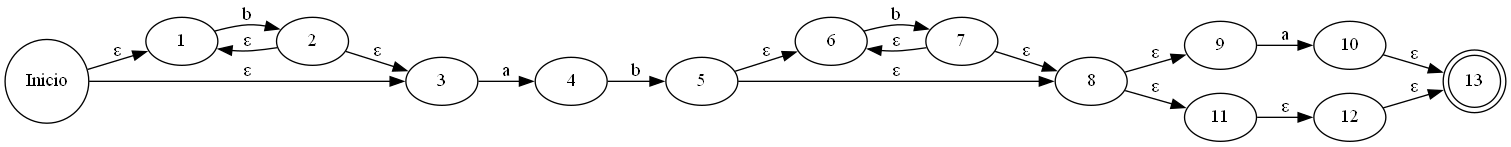
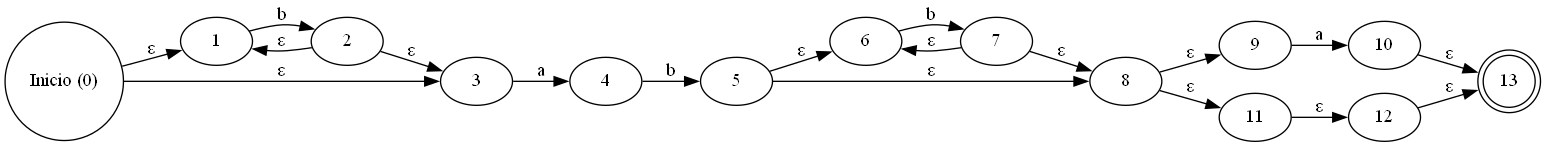
ya listo, el detector de errores

diff --git a/Postfix_AFN.py b/Postfix_AFN.py
@@ -3,6 +3,7 @@
 import numpy as np
 from copy import deepcopy
 from graphviz import Digraph
+import re
 
 
 #stack para hacer las acciones del postfix
@@ -27,6 +28,10 @@ class Stack:
 
 
 def reescribiendoExpr(regex):
+    if re.search(r"\s", regex):
+        print("La expresión regular no puede contener espacios.")
+        return
+
     regex = regex.replace('ϵ',' ') 
     # definimos ϵ como vacio
     # y definimos que coloque . donde hay concatenaciones, en el resto no
@@ -55,26 +60,37 @@ def topostfix(regex):
     lista = list(regex)
     output = []
 
-    stack = Stack()
+    stack = []
 
     for item in lista:
+        
         if (item.isalpha() or item.isdigit() or item == ' '):
             output.append(item)
         elif (item == '('):
-            stack.push(item)
+            stack.append(item)
         elif (item == ')'):
-            top = stack.pop()
-            while(top != '('):
-                output.append(top)
+            try:
                 top = stack.pop()
+                while(top != '('):
+                    output.append(top)
+                    top = stack.pop()
+            except IndexError:
+                print("Error de sintaxis: paréntesis sin cerrar")
+                return
         else:
-            while (not stack.empty()) and (jerar[stack.peek()] >= jerar[item]):
+            while (len(stack) > 0 and jerar[stack[-1]] >= jerar[item]):
                   output.append(stack.pop())
-            stack.push(item)
-    while(not stack.empty()):
+            stack.append(item)
+    
+    while(len(stack) > 0):
+        if stack[-1] in ['(', ')']:
+            print("Error de sintaxis: paréntesis sin cerrar")
+            return
         output.append(stack.pop())
     
     return ''.join(output)
+
+
 #termina todo relacionado con postfix
 
 #AFN
@@ -305,7 +321,7 @@ def evaluatePostfix(regex):
     # agregar estados al grafo
     for state in afn.estados:
         if state == afn.estadoInicial:
-            dot.node(str(state), "Inicio", shape="circle")
+            dot.node(str(state), "Inicio (0)", shape="circle")
         elif state == afn.estadoFinal:
             dot.node(str(state), shape="doublecircle")
         else:
@@ -364,8 +380,11 @@ def ejecutar(regex):
 
 
 # INGRESANDO EXPRESION REGULAR A TRABAJAR
-# result = ejecutar('(b|b)*abb(a|b)*')
 
 result = ejecutar('b*(abb*)(a|ϵ)')
+# result = ejecutar('+a')
+# result = ejecutar('a b')
+# result = ejecutar('(ab)(a')
+# result = ejecutar('++a')
+# result = ejecutar('(a|b)*c')
 
-#result = ejecutar('b*(abb*)(a|ϵ)')
